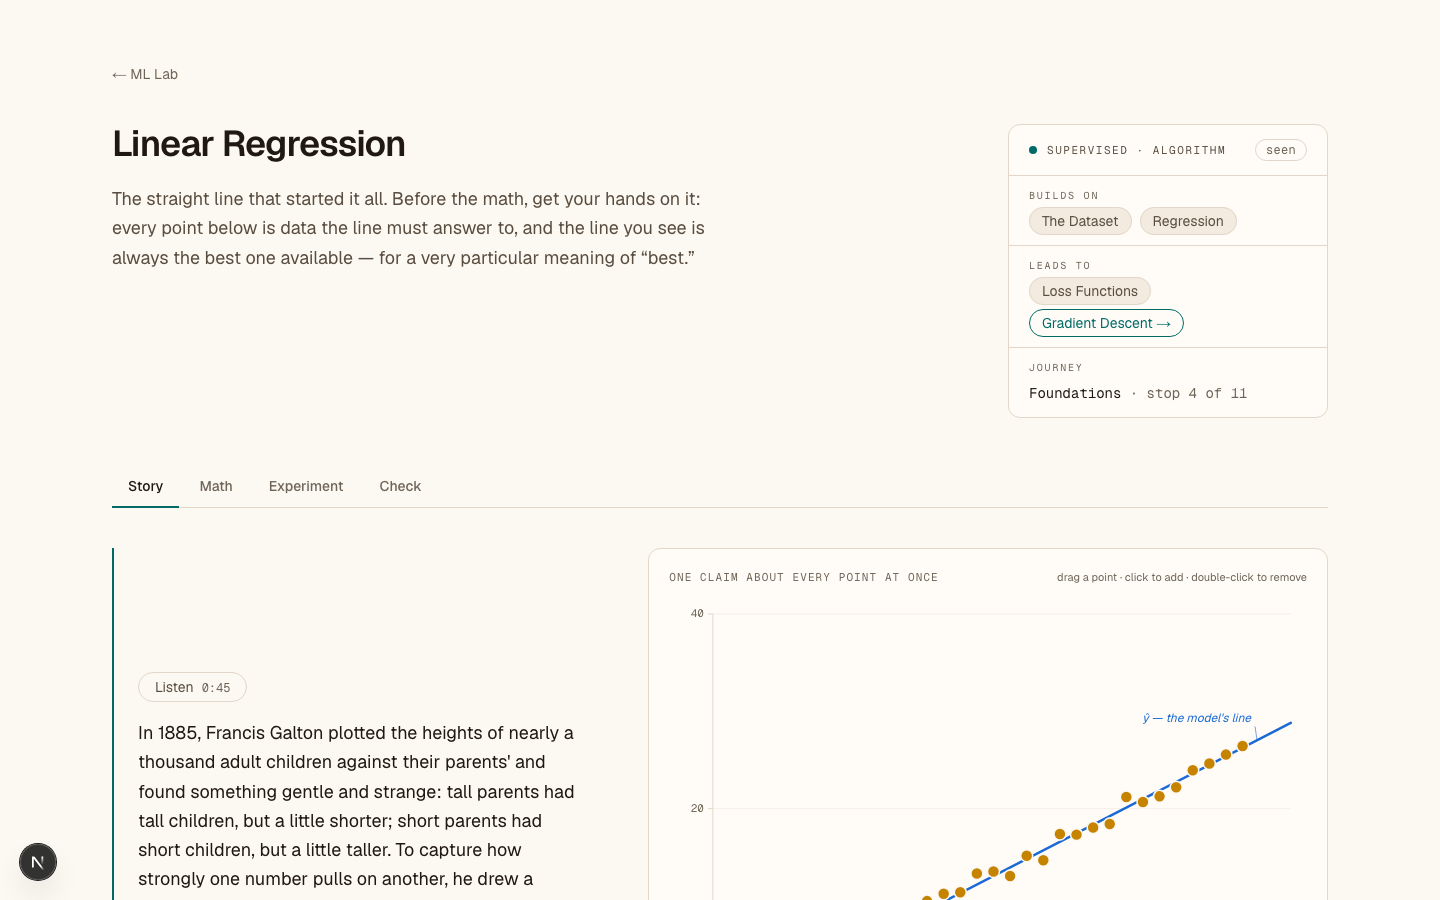
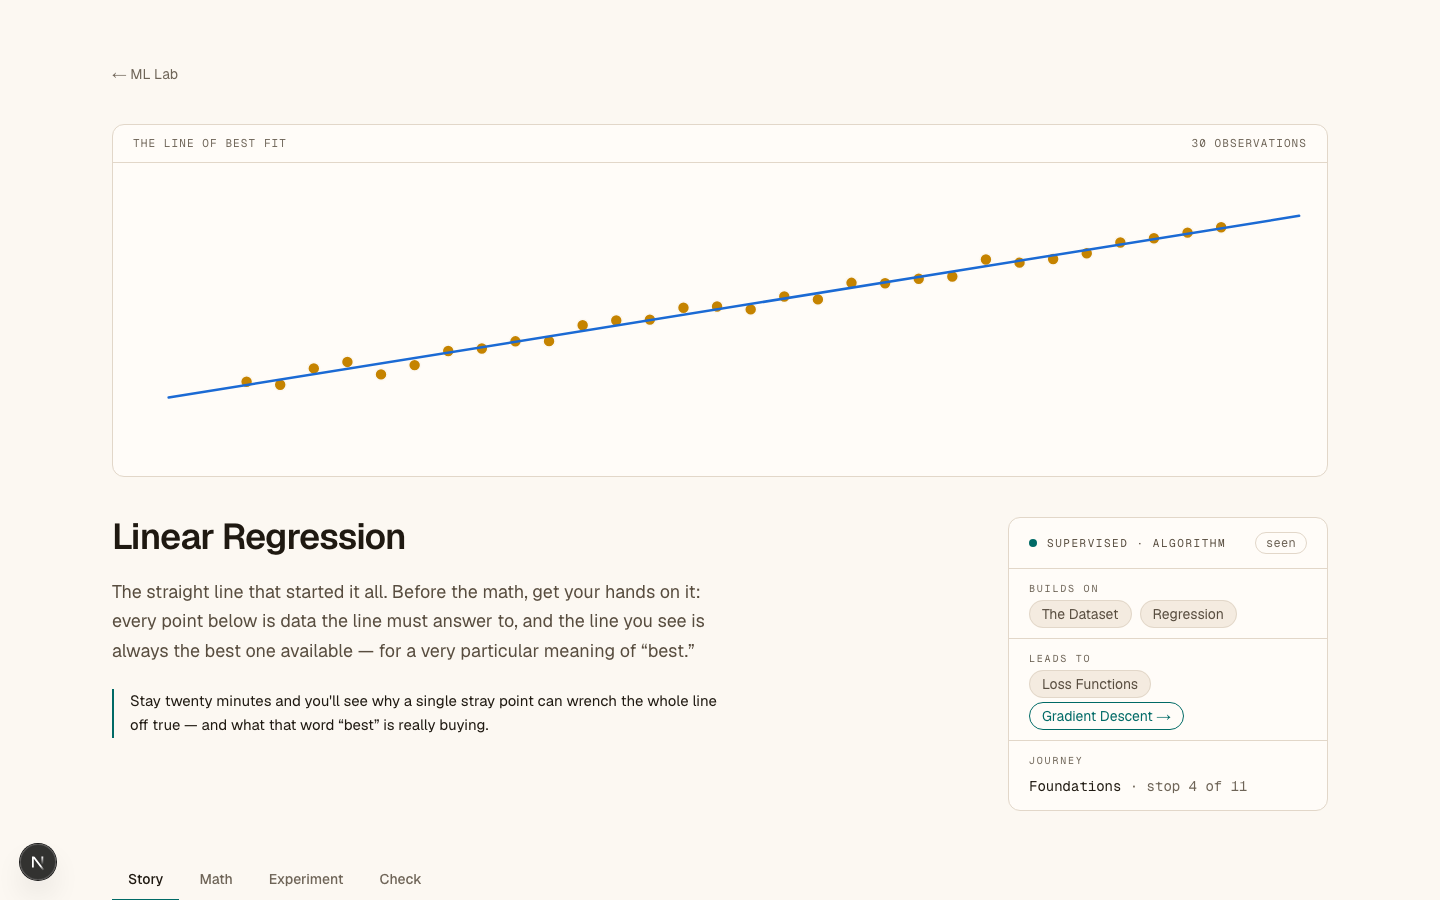
Design: lead the LR masthead with the live specimen
The exhibit opened with its catalogue tag, not its specimen — a plain
title, a muted lede, a metadata card, and a void below, with the living
line-in-cloud pushed under a tab boundary. It read as a docs header, not
an invitation.

Now a wide, ambient specimen hero leads the masthead: the same truth-hued
cloud and prediction-hued line as the working plot, stripped to a portrait
(no axes, no readouts). On load the line eases up from the flat baseline —
predict the mean for everyone — and pivots into the line of best fit,
settling on the centroid least-squares always passes through. Reduced
motion renders it already settled.

A one-line promise of the payoff (the outlier failure mode) fills the
masthead's lower-left, turning dead space into invitation. The frame's
hero/promise props are optional, so gradient-descent is untouched until
it gets its own specimen.

diff --git a/src/components/exhibits/LinearRegressionHero.tsx b/src/components/exhibits/LinearRegressionHero.tsx
@@ -1,0 +1,83 @@
+"use client";
+
+import { useEffect, useMemo, useState } from "react";
+import { DataPoints, FitLine, Plot } from "@/components/viz/Plot";
+import { olsFit } from "@/lib/models/linear-regression";
+import { linearRegressionExperiment } from "@content/exhibits/linear-regression/experiment";
+
+/**
+ * The specimen hero — the first frame of the Linear Regression exhibit. A wide,
+ * quiet "specimen under glass": the same truth-hued cloud and prediction-hued
+ * line as the working plot below, stripped to a portrait — no axes, no readouts,
+ * no controls. On load the line eases up from the flat baseline (predict the
+ * mean ȳ for everyone) and pivots into the line of best fit, settling on the
+ * data's centre of mass — the pivot least-squares always passes through. Motion
+ * is the lab's sanctioned `--motion-move`; under reduced motion it renders
+ * already settled. The specimen leads the masthead so the learner meets the
+ * living object before reading its catalogue tag.
+ */
+
+const SPECIMEN = linearRegressionExperiment.datasets.find(
+  (d) => d.id === "clean-linear",
+)!.points;
+
+// The baseline guess before the data has any say: a flat line at the mean ȳ.
+const FLAT = {
+  slope: 0,
+  intercept: SPECIMEN.reduce((s, p) => s + p.y, 0) / SPECIMEN.length,
+};
+
+export function LinearRegressionHero() {
+  const fit = useMemo(() => olsFit(SPECIMEN), []);
+  const [settled, setSettled] = useState(false);
+  const [animate, setAnimate] = useState(false);
+
+  useEffect(() => {
+    const reduce = window.matchMedia("(prefers-reduced-motion: reduce)").matches;
+    if (reduce) {
+      // No journey to watch — rest on the fit straight away.
+      const id = requestAnimationFrame(() => setSettled(true));
+      return () => cancelAnimationFrame(id);
+    }
+    // Let the flat baseline paint once, then arm the ease and let the cloud
+    // pull the line into its fit a beat later.
+    let timer = 0;
+    const id = requestAnimationFrame(() => {
+      setAnimate(true);
+      timer = window.setTimeout(() => setSettled(true), 260);
+    });
+    return () => {
+      cancelAnimationFrame(id);
+      window.clearTimeout(timer);
+    };
+  }, []);
+
+  return (
+    <figure className="overflow-hidden rounded-xl border border-line bg-raised">
+      <figcaption className="flex items-baseline justify-between gap-4 border-b border-line px-5 py-2.5">
+        <span className="font-mono text-[11px] tracking-widest text-ink-faint uppercase">
+          The line of best fit
+        </span>
+        <span className="hidden font-mono text-[11px] tracking-widest text-ink-faint uppercase sm:inline">
+          30 observations
+        </span>
+      </figcaption>
+      <div className="px-3 py-2">
+        <Plot
+          width={1200}
+          height={300}
+          // Generous matte: the cloud rests in the middle of the frame with sky
+          // above and floor below, so it reads as a composed specimen, not a
+          // chart line jammed corner to corner. The wide-short frame also calms
+          // the slope to a gentle rise.
+          xDomain={[-0.8, 10.8]}
+          yDomain={[-7, 33]}
+          ariaLabel="Thirty observations scattered along a gentle upward trend, with the least-squares line — the single straight line that makes its total squared miss as small as possible — coming to rest on the data."
+        >
+          <DataPoints points={SPECIMEN} />
+          <FitLine params={settled ? fit : FLAT} ease={animate} />
+        </Plot>
+      </div>
+    </figure>
+  );
+}

diff --git a/src/components/exhibits/ExhibitFrame.tsx b/src/components/exhibits/ExhibitFrame.tsx
@@ -33,6 +33,8 @@ import { journeys } from "@content/journeys/foundations";
 export function ExhibitFrame({
   nodeId,
   lede,
+  promise,
+  hero,
   narrative,
   spine,
   math,
@@ -43,6 +45,18 @@ export function ExhibitFrame({
   nodeId: string;
   /** The exhibit's opening prose — the one part of the chrome that is content. */
   lede: ReactNode;
+  /**
+   * A one-line promise of the payoff — what the learner will walk away knowing,
+   * stated as a hook (often the failure mode this exhibit teaches). It turns the
+   * masthead's lower-left from dead space into invitation. Optional.
+   */
+  promise?: ReactNode;
+  /**
+   * The specimen hero: a wide, ambient portrait of the live object that leads
+   * the masthead, so the learner meets the thing before its catalogue tag.
+   * Optional — an exhibit without one keeps the title-led masthead.
+   */
+  hero?: ReactNode;
   narrative: ExhibitNarrative;
   /** The ordered beats that drive the guided graphic. */
   spine: Beat<unknown>[];
@@ -160,14 +174,24 @@ export function ExhibitFrame({
 
       <RecordVisit nodeId={nodeId} />
 
-      {/* Masthead: the title block leads; the specimen placard fills the right
-          and orients the learner in the knowledge graph before the interactive. */}
+      {/* The specimen leads. A wide, ambient portrait of the live object opens
+          the exhibit before any chrome — you meet the thing, then read its tag. */}
+      {hero && <div className="mb-10">{hero}</div>}
+
+      {/* Masthead: under the specimen, the title and the placard sit as a pair —
+          the exhibit's name and its catalogue record, orienting the learner in
+          the knowledge graph before the interactive. */}
       <header className="grid gap-8 lg:grid-cols-[minmax(0,1fr)_minmax(0,320px)] lg:items-start lg:gap-12">
         <div className="max-w-[58ch]">
           <h1 className="text-4xl font-semibold tracking-tight text-balance">
             {node.title}
           </h1>
           <div className="mt-5 text-lg leading-relaxed text-ink-muted">{lede}</div>
+          {promise && (
+            <p className="mt-6 border-l-2 border-accent pl-4 text-[15px] leading-relaxed text-ink">
+              {promise}
+            </p>
+          )}
         </div>
         <SpecimenPlacard
           node={node}

diff --git a/src/app/exhibits/linear-regression/page.tsx b/src/app/exhibits/linear-regression/page.tsx
@@ -1,4 +1,5 @@
 import { ExhibitFrame } from "@/components/exhibits/ExhibitFrame";
+import { LinearRegressionHero } from "@/components/exhibits/LinearRegressionHero";
 import { LinearRegressionLab } from "@/components/exhibits/LinearRegressionLab";
 import { LinearRegressionStory } from "@/components/exhibits/LinearRegressionStory";
 import { linearRegressionCheck } from "@content/exhibits/linear-regression/concept-check";
@@ -14,6 +15,7 @@ export default function LinearRegressionExhibit() {
       narrative={linearRegressionNarrative}
       spine={linearRegressionSpine}
       math={linearRegressionMath}
+      hero={<LinearRegressionHero />}
       lede={
         <p>
           The straight line that started it all. Before the math, get your
@@ -21,6 +23,13 @@ export default function LinearRegressionExhibit() {
           the line you see is always the best one available — for a very
           particular meaning of &ldquo;best.&rdquo;
         </p>
+      }
+      promise={
+        <>
+          Stay twenty minutes and you&apos;ll see why a single stray point can
+          wrench the whole line off true — and what that word &ldquo;best&rdquo;
+          is really buying.
+        </>
       }
       story={<LinearRegressionStory />}
       experiment={<LinearRegressionLab />}